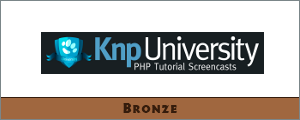
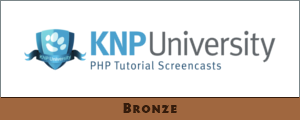
Activated Sponsor module and updated badges

Changed region(s): [[0.06, 0.225, 0.93, 0.625], [0.0, 0.8, 1.0, 1.0]]

diff --git a/config/application.config.php b/config/application.config.php
@@ -5,7 +5,7 @@ return array(
         'Application',
         'SspContact',
         'SspTalks',
-//        'SspSponsors',
+        'SspSponsors',
 //        'SspBlog',
 //        'SspPress',
 //        'ZfcBase',
